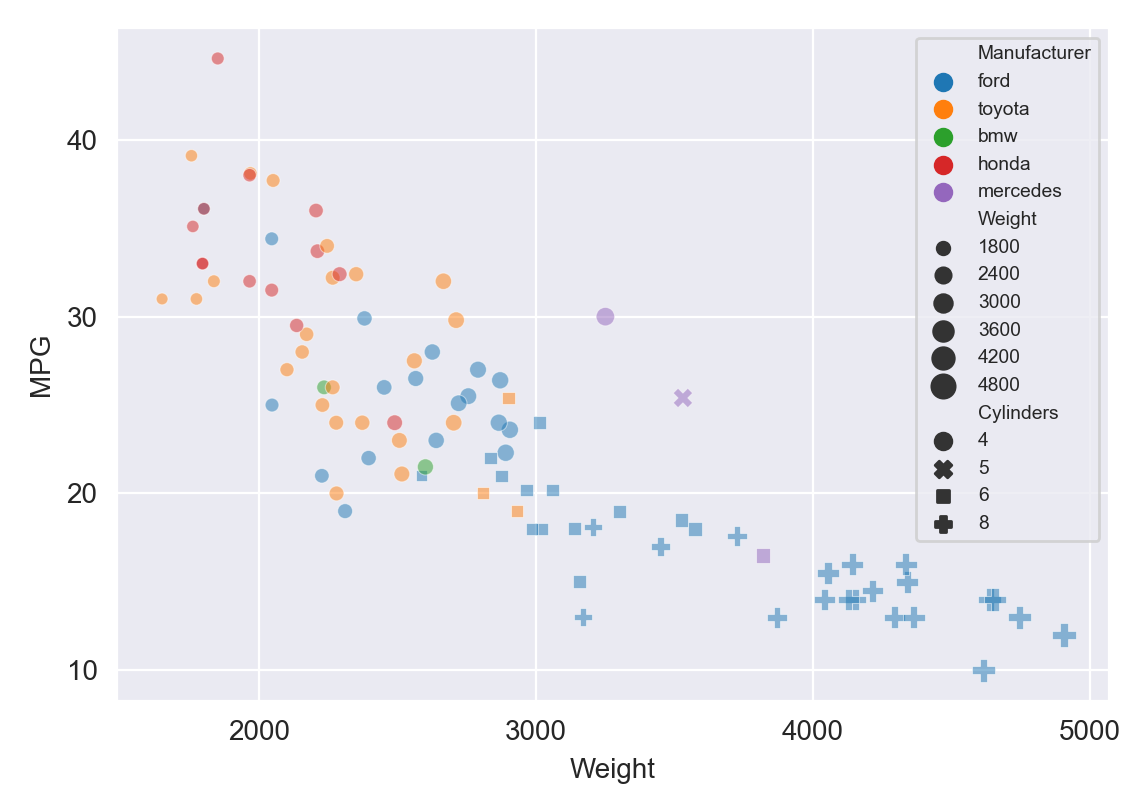
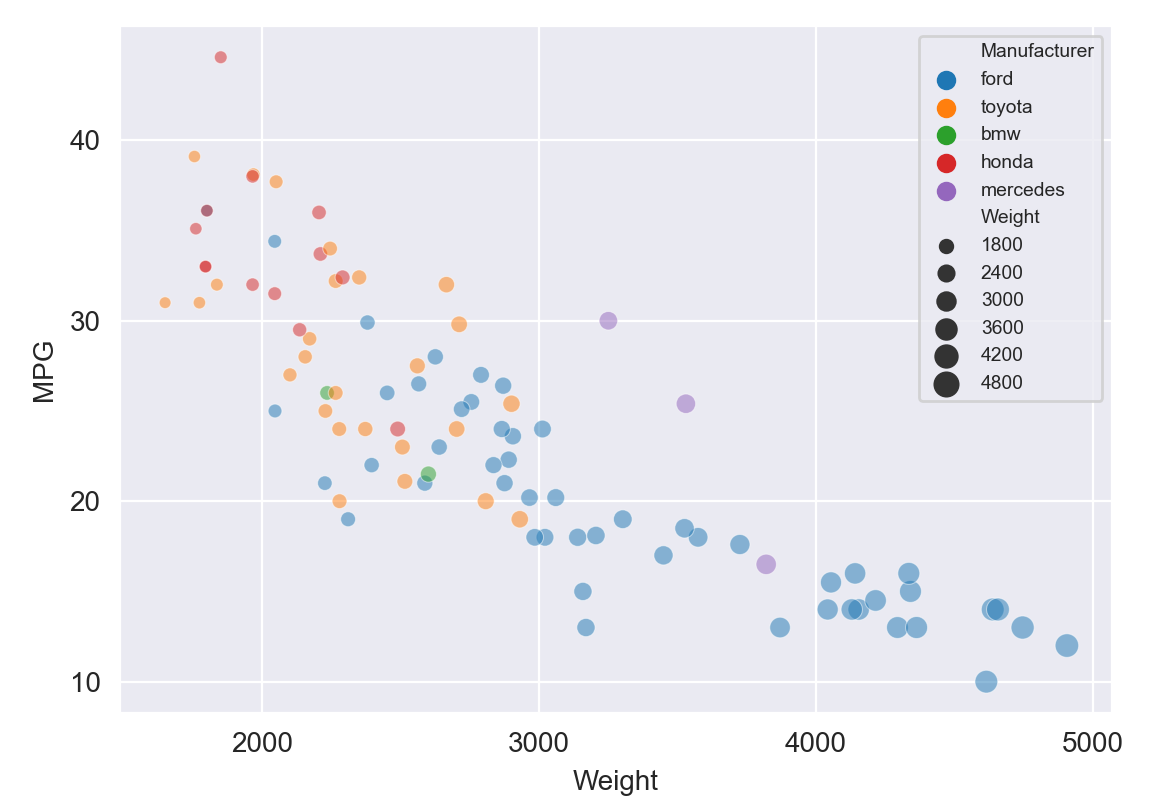
fix plot

diff --git a/code/plot.py b/code/plot.py
@@ -2,7 +2,7 @@ import pandas as pd
 import matplotlib.pyplot as plt
 import seaborn as sb
 
-df = pd.read_csv("cars-sample.csv")
+df = pd.read_csv("code/cars-sample.csv")
 
 sb.set_style('darkgrid')
 splot = sb.scatterplot(data=df, 
@@ -10,7 +10,6 @@ splot = sb.scatterplot(data=df,
             y='MPG',
             hue='Manufacturer',
             size='Weight',
-            style='Cylinders',
             alpha=0.5
             )
 
